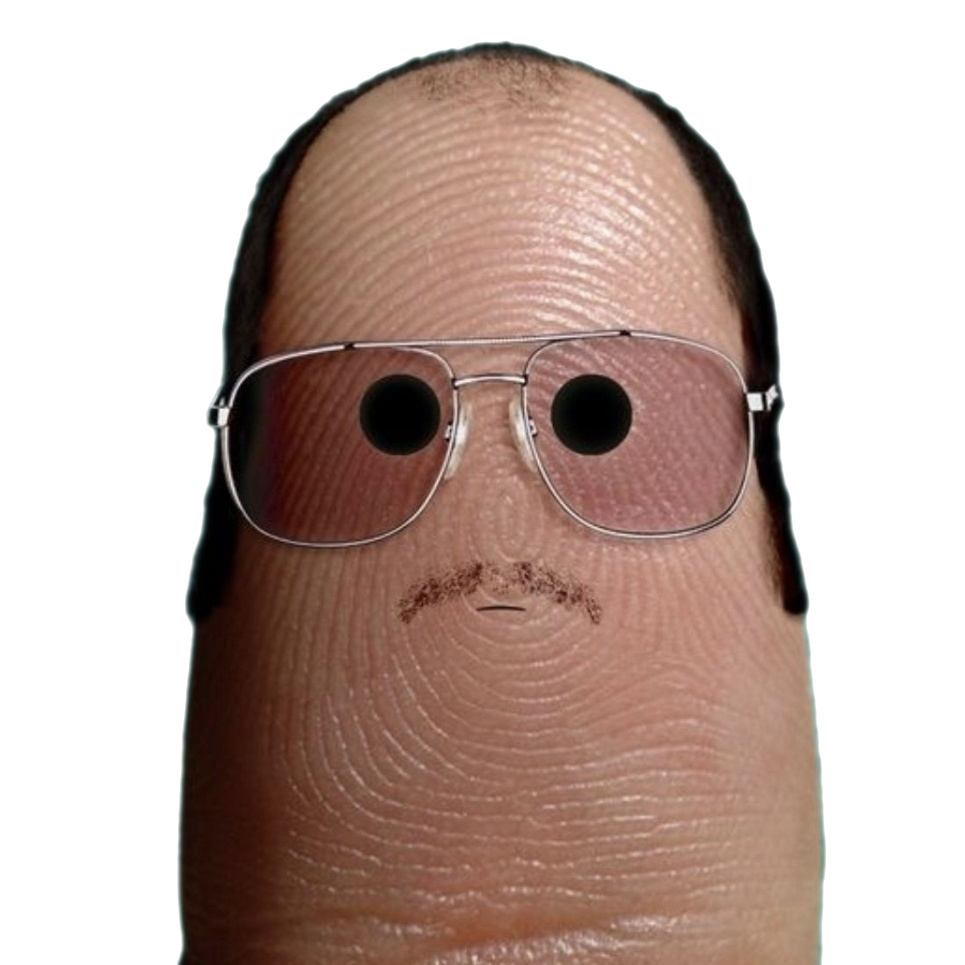
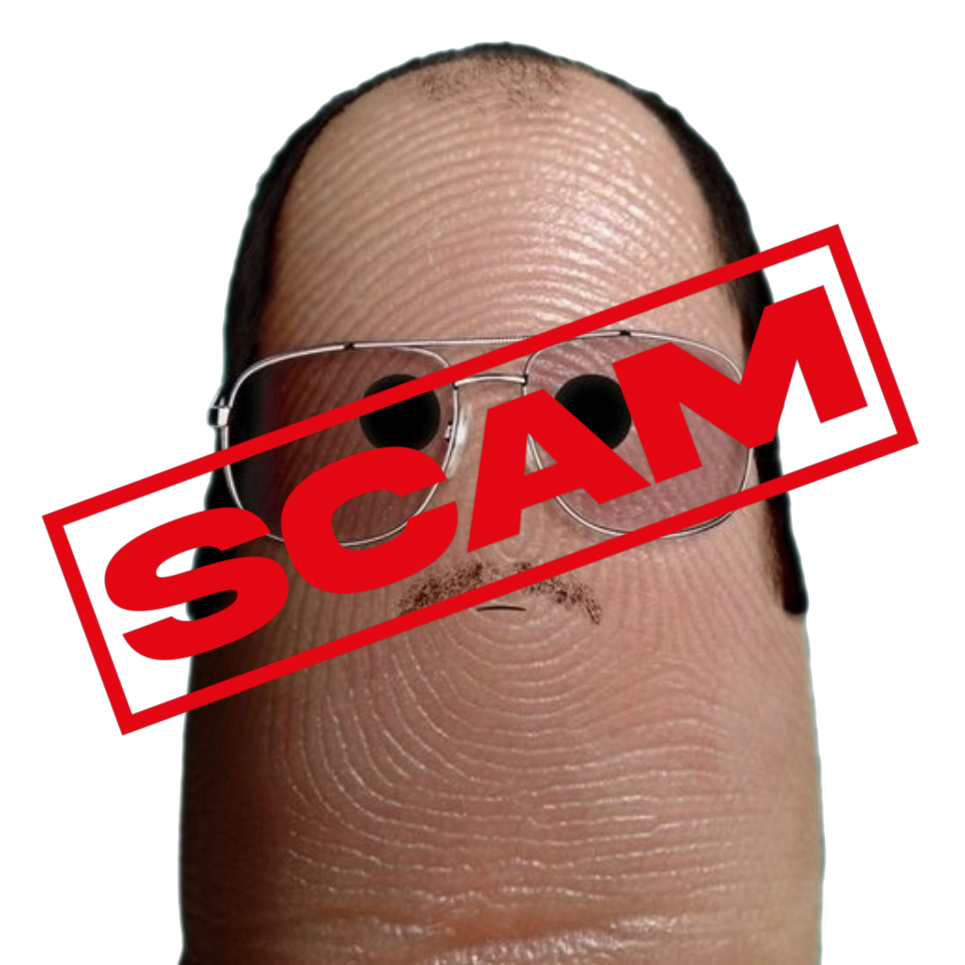
update

Changed region(s): [[0.0311, 0.2176, 0.9637, 0.7772]]

diff --git a/index.html b/index.html
@@ -73,24 +73,8 @@
         <div class="row gy-5">
           <div class="col-lg-6 order-2 order-lg-1 d-flex flex-column justify-content-center">
             <h2>$dork</h2>
-            <p>That’s literally thumbthing you didn’t know you needed! Dork is your favorite nerdy thumb rocking glasses, ready to bring all the laughs, memes, and vibes to the crypto space. We’re here to prove that taking life seriously is overrated—every meme, every laugh, and every share makes Dork’s value grow. Hop on the meme train, join the Dork squad, and let’s get weird together in a crypto adventure that’s as quirky as your last bad joke! #StayDorky</p>
-            <div class="contract-div">
-              <div class="contract-address" id="contractAddressShort">2Hj45C2bjvszU3kGvPf6uc1Ui1f4...</div>
-              <button class="copy-btn" onclick="copyToClipboard()" id="copyButton">
-                  <i class="bi bi-clipboard"></i>
-              </button>
-          </div>
-          
-          <div class="d-flex">
-              <a href="https://x.com/dorkcto"><img src="/assets/img/x.png" height="72px"></img></a>
-              <a href="https://t.me/DORKCTOPORTAL"><img src="/assets/img/tg.png" height="72px"></img></a>
-              <a href="https://instagram.com/dorksol"><img src="/assets/img/ig.png" height="72px"></img></a>
-            </div>
-            <div class="d-flex">
-            <a href="https://www.dextools.io/app/en/solana/pair-explorer/DwUF2eh49e7ey91q76FvwvLSn9tNKPkk1zCxh8iVCmj5?t=1731226522971"><img src="/assets/img/dext.png" height="72px"></img></a>
-            <a href="https://dexscreener.com/solana/dwuf2eh49e7ey91q76fvwvlsn9tnkpkk1zcxh8ivcmj5"><img src="/assets/img/dexs.png" height="72px"></img></a>
-            <a href="https://raydium.io/swap/?inputMint=sol&outputMint=2Hj45C2bjvszU3kGvPf6uc1Ui1f4wj4QMEMWmfexpump"><img src="/assets/img/ray.png" height="72px"></img></a>  
-          </div>
+            <p>I regret to inform you that the entire Geeky's team (X: <a href="https://x.com/geekytrades" target="_blank">@geekytrades</a>) are scammers. I also fell for their hype, which led me to create a website. Surprisingly, they accepted it as an official site without any verification, which immediately raised red flags for me, as no legitimate project would grant such permissions to a random individual if they were genuinely aiming to run a serious project. They will likely try to shift the blame onto someone else, but unfortunately, that’s often the nature of crypto. Sincerely, an anonymous investor.</p>
+
           </div>
           <div class="col-lg-6 order-1 order-lg-2">
             <img src="assets/img/dork.png" class="img-fluid" alt="">
@@ -101,69 +85,13 @@
       
       <div class="icon-boxes position-relative" data-aos="fade-up" data-aos-delay="200">
         <div class="container position-relative">
-          <div class="row gy-4 mt-5">
-
-            <div class="col-xl-3 col-md-6">
-              <div class="icon-box">
-                <div class="icon"><i class="bi bi-1-square"></i></i></div>
-                <h4 class="title"><a href="https://phantom.app/" target="_blank" class="stretched-link">Create a Wallet</a></h4>
-                <p>Download the Phantom wallet or any wallet app of your choice for free from the App Store or Google Play Store.</p>
-              </div>
-            </div><!--End Icon Box -->
-
-            <div class="col-xl-3 col-md-6">
-              <div class="icon-box">
-                <div class="icon"><i class="bi bi-2-square"></i></div>
-                <h4 class="title"><a href="https://www.binance.com/en-GB/crypto/buy/USD/SOL" target="_blank" class="stretched-link">Get some SOL
-                </a></h4>
-                <p>Make sure you have SOL in your wallet to swap for $dork. If you don't have any SOL, you can purchase it on another exchange and transfer it to your wallet.</p>
-              </div>
-            </div><!--End Icon Box -->
-
-            <div class="col-xl-3 col-md-6">
-              <div class="icon-box">
-                <div class="icon"><i class="bi bi-3-square"></i></div>
-                <h4 class="title"><a href="https://raydium.io/swap/?inputMint=sol&outputMint=2Hj45C2bjvszU3kGvPf6uc1Ui1f4wj4QMEMWmfexpump" target="_blank" class="stretched-link">Go to Raydium</a></h4>
-                <p>Go to Raydium, connect your wallet, and paste the $dork token address into the platform. Select 'dork' and confirm the transaction. When your wallet prompts you to sign, provide your signature.</p>
-              </div>
-            </div><!--End Icon Box -->
-
-            <div class="col-xl-3 col-md-6">
-              <div class="icon-box">
-                <div class="icon"><i class="bi bi-4-square"></i></div>
-                <h4 class="title"><a href="https://raydium.io/swap/?inputMint=sol&outputMint=2Hj45C2bjvszU3kGvPf6uc1Ui1f4wj4QMEMWmfexpump" target="_blank" class="stretched-link">Swap for $dork</a></h4>
-                <p>Swap SOL for $dork. There are no taxes, so you don't need to worry about buying with a specific slippage. However, you may need to adjust slippage during times of market volatility.</p>
-              </div>
-            </div><!--End Icon Box -->
-
-          </div>
         </div>
       </div>
 
     </section><!-- /Hero Section -->
 
-  
 
   </main>
-
-  <footer id="footer" class="footer light-background">
-
-    <div class="container">
-      <div class="copyright text-center" style="font-size: x-small;">
-        <p>$dork is a memecoin with no intrinsic value or expectation of financial return. There is no formal team or roadmap. The token is useless and for entertainment purposes only.</p>
-      </div>
-      <div class="copyright text-center ">
-        <p>© <script type="text/javascript">var year = new Date();document.write(year.getFullYear());</script> <span>by</span><strong class="px-1 sitename">$dork</strong>- <span>All Rights Reserved</span></p>
-      </div>
-      <div class="social-links d-flex justify-content-center">
-        <a href="https://x.com/dorkcto"><i class="bi bi-twitter-x"></i></a>
-        <a href="https://t.me/DORKCTOPORTAL"><i class="bi bi-telegram"></i></a>
-        <a href="https://instagram.com/dorksol"><i class="bi bi-instagram"></i></a>
-      </div>
-
-    </div>
-
-  </footer>
 
   <!-- Scroll Top -->
   <a href="#" id="scroll-top" class="scroll-top d-flex align-items-center justify-content-center"><i class="bi bi-arrow-up-short"></i></a>
@@ -180,23 +108,7 @@
   <!-- Main JS File -->
   <script src="assets/js/main.js"></script>
 
-  <script>
-    function copyToClipboard() {
-        const contractAddressFull = "2Hj45C2bjvszU3kGvPf6uc1Ui1f4wj4QMEMWmfexpump";
-        
-        navigator.clipboard.writeText(contractAddressFull).then(() => {
-            const buttonIcon = document.getElementById("copyButton").querySelector("i");
-            buttonIcon.classList.remove("bi-clipboard");
-            buttonIcon.classList.add("bi-clipboard-check");
-            setTimeout(() => {
-                buttonIcon.classList.remove("bi-clipboard-check");
-                buttonIcon.classList.add("bi-clipboard");
-            }, 2000);
-        }).catch((err) => {
-            console.error("Błąd podczas kopiowania: ", err);
-        });
-    }
-</script>
+
 
 <!-- Google tag (gtag.js) -->
 <script async src="https://www.googletagmanager.com/gtag/js?id=G-1MSGQW9FWM"></script>
@@ -207,6 +119,11 @@
 
   gtag('config', 'G-1MSGQW9FWM');
 </script>
+
+
+
+
+
 
 </body>
 

diff --git a/assets/css/main.css b/assets/css/main.css
@@ -1359,3 +1359,30 @@ section,
 .copy-btn:focus {
   outline: none;
 }
+
+.main-image {
+  width: 250px;
+  height: 250px;
+  border: 1px solid black;
+}
+
+.thumbnails {
+  display: grid;
+  grid-template-columns: repeat(5, 50px);
+  grid-template-rows: repeat(5, 50px);
+  gap: 10px;
+  width: 300px;
+}
+
+.thumbnail {
+  width: 50px;
+  height: 50px;
+  cursor: pointer;
+  border: 1px solid #ccc;
+  object-fit: cover;
+}
+
+button {
+  margin-top: 20px;
+  margin-left: 10px;
+}
